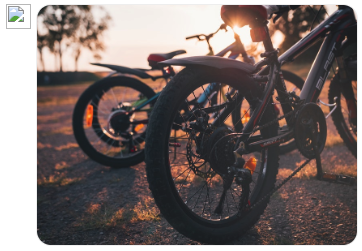
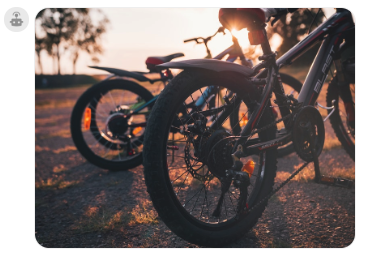
Update image for Image statement

diff --git a/pages/documents/ConversationalAI/ConversationBuilder/Interactions/interactions_statements.md b/pages/documents/ConversationalAI/ConversationBuilder/Interactions/interactions_statements.md
@@ -23,7 +23,7 @@ Text statements can display dynamic values through the use of variables; for hel
 ### Image
 Image statements display a single image.
 
-<img style="width:300px" src="img/ConvoBuilder/statements_image.png">
+<img style="width:250px" src="img/ConvoBuilder/statements_image.png">
 
 The domain in the image URL must be [whitelisted]((conversation-builder-interactions-interaction-basics.html#whitelisting)).
 
